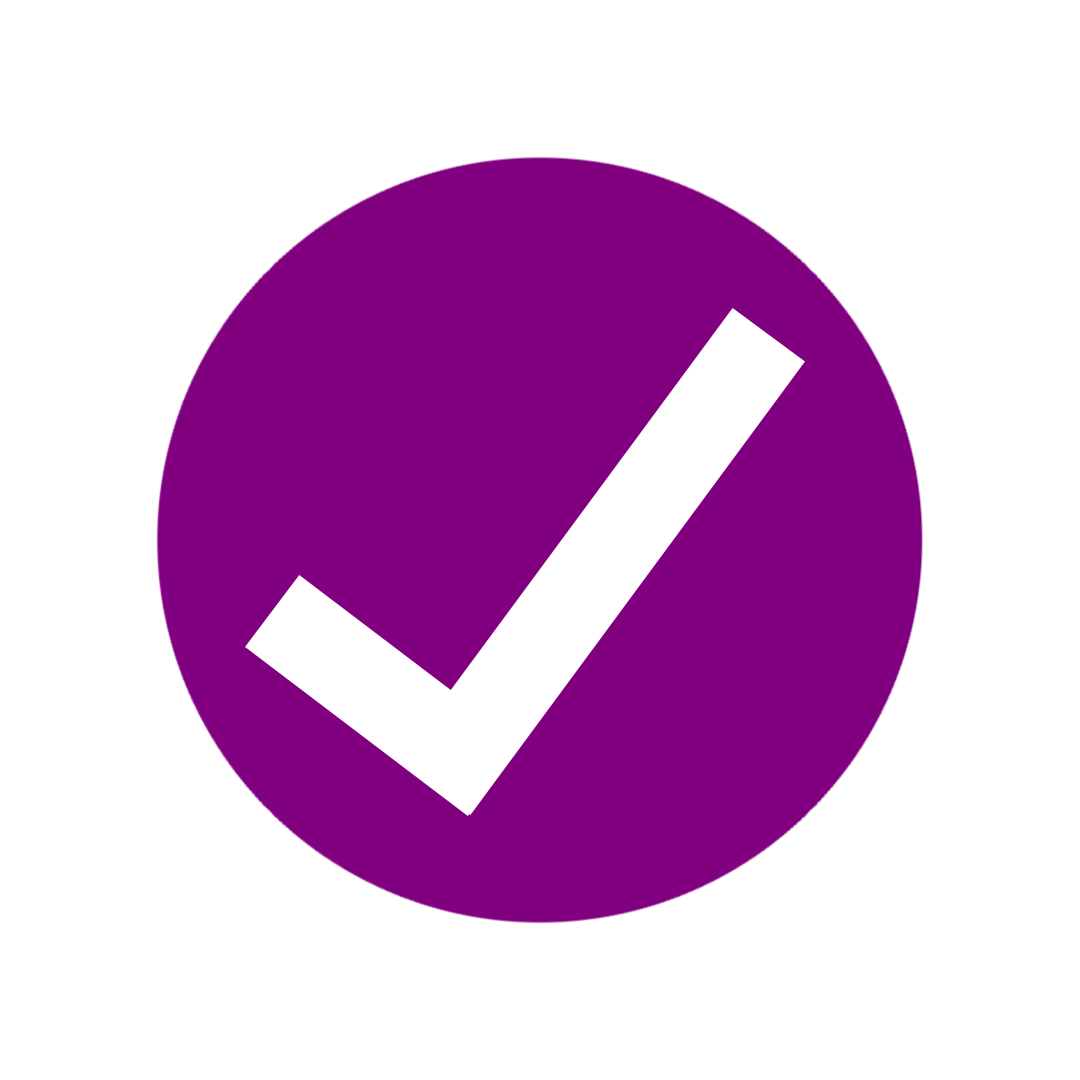
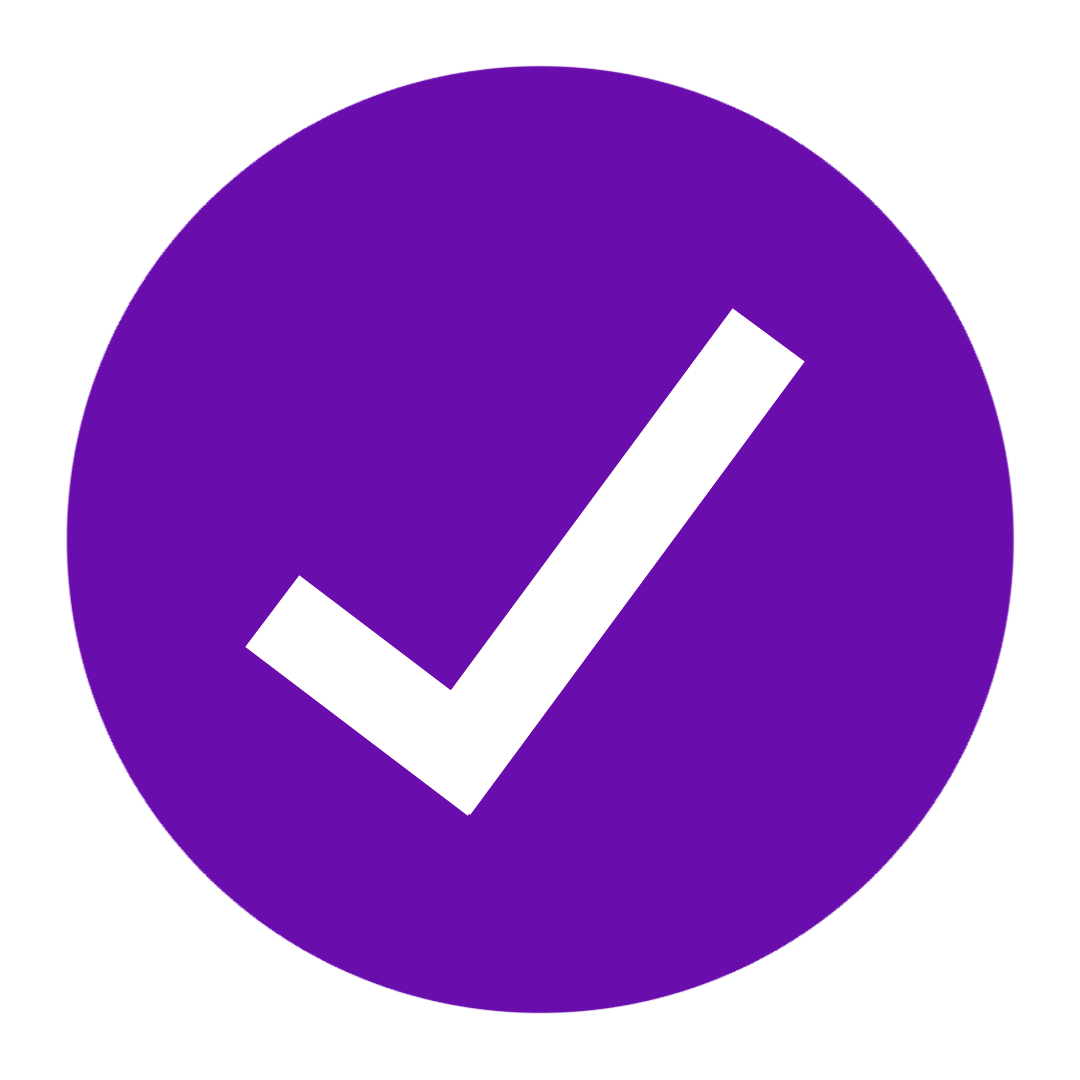
True Final

diff --git a/particles-config.js b/particles-config.js
@@ -8,7 +8,7 @@ particlesJS("particles-js", {
         }
       },
       "color": {
-        "value": "#ffffff"
+        "value": "#6a0dad"
       },
       "shape": {
         "type": "circle"
@@ -23,7 +23,7 @@ particlesJS("particles-js", {
       "line_linked": {
         "enable": true,
         "distance": 150,
-        "color": "#ffffff",
+        "color": "#6a0dad",
         "opacity": 0.25,
         "width": 1
       },

diff --git a/styles.css b/styles.css
@@ -232,7 +232,7 @@ textarea::placeholder {
   left: 0;
   width: 100%;
   height: 100%;
-  background-color: rgba(128, 0, 128, 0.4); /* Morado translúcido */
+  background-color: rgba(106, 13, 173, 0.4); /* Morado translúcido */
   opacity: 0;
   transition: opacity 0.3s;
   border-radius: 8px;
